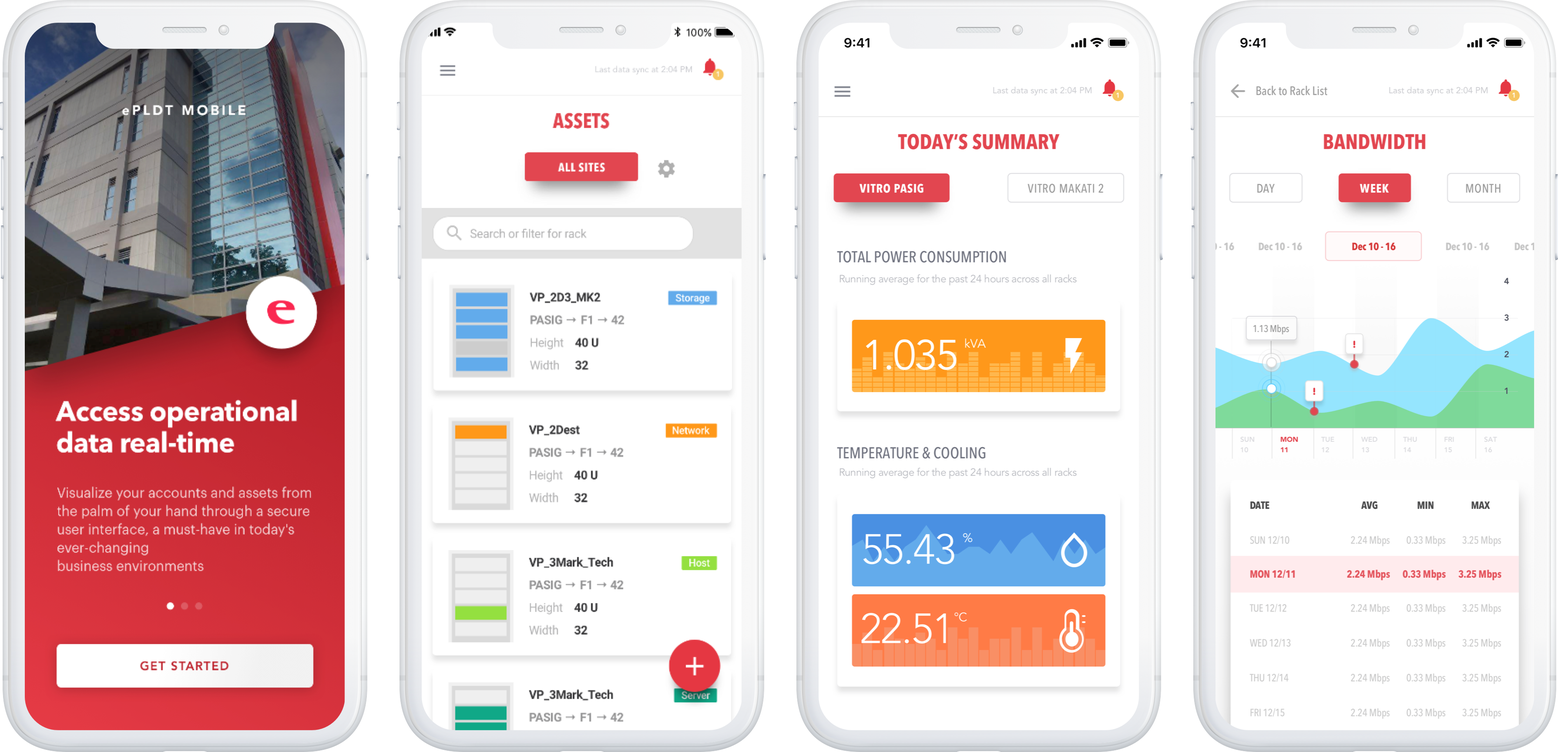
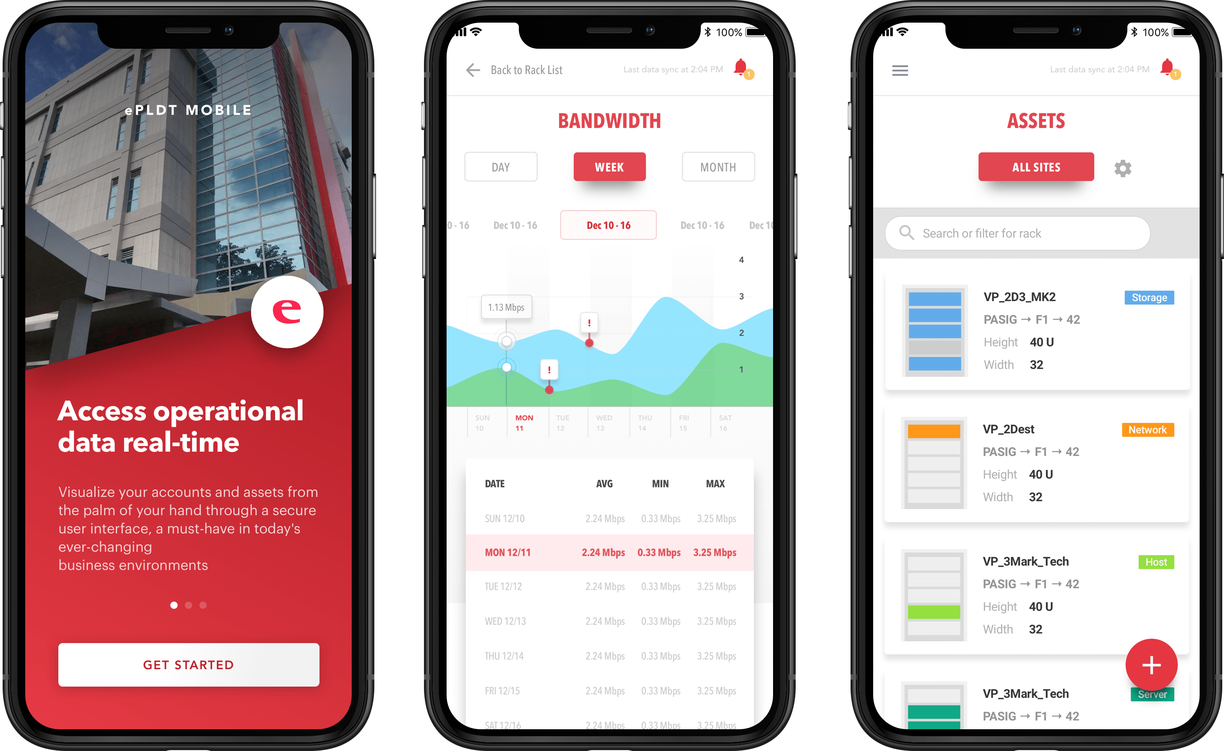
Changed shots from white mocks to black

diff --git a/_site/work/epldt/index.html b/_site/work/epldt/index.html
@@ -450,8 +450,8 @@
 
 
   <div class="container">
-    <div class="row subsection-left row-center">
-      <div class="column content pull-left padded-right">
+    <div class="row subsection-right row-center">
+      <div class="column content pull-right padded-left">
         <h4 class="heading">The ePLDT Global Experience Manual (GEM)</h4>
         <p class="description"><p>We envisioned the G.E.M. to be ePLDT’s brand book, design system and culture code rolled into one source. Wrangling up cross-functional designers, writers and key company personnel, we started working on the prototype of this unprecedented project.</p>
 
@@ -461,7 +461,7 @@
 <a href="/cases/epldtgem" class="button button-outline">Read the case study</a></p>
 </p>
       </div>
-      <div class="column column-50-sm image pull-right">
+      <div class="column column-50-sm image pull-left">
         <picture>
           <source media="(min-width: 40rem)" srcset="/images/cases/epldt-gem/headshot@sm.png">
           <img src="/images/cases/epldt-gem/headshot@sm.png" alt="ePLDT Global Experience Manual cover page" style="width:auto;">
@@ -472,8 +472,8 @@
 
 
   <div class="container">
-    <div class="row subsection-right row-center">
-      <div class="column content pull-right padded-left">
+    <div class="row subsection-left row-center">
+      <div class="column content pull-left padded-right">
         <h4 class="heading">ePLDT Hardworking Website</h4>
         <p class="description"><p>As the principal UX designer, I helped ePLDT rethink the purpose of the company website, and to turn it into a stronger lead generation channel.</p>
 
@@ -483,7 +483,7 @@
 <a href="/cases/epldtgem" class="button button-outline">Read the case study</a></p>
 </p>
       </div>
-      <div class="column column-50-sm image pull-left">
+      <div class="column column-50-sm image pull-right">
         <picture>
           <source media="(min-width: 40rem)" srcset="/images/cases/epldt-website/headshot@sm.png">
           <img src="/images/cases/epldt-website/headshot@sm.png" alt="Competitive analysis screenshots" style="width:auto;">
@@ -494,8 +494,8 @@
 
 
   <div class="container">
-    <div class="row subsection-left row-center">
-      <div class="column content pull-left padded-right">
+    <div class="row subsection-right row-center">
+      <div class="column content pull-right padded-left">
         <h4 class="heading">ePLDT Mobile</h4>
         <p class="description"><p>Part of the company’s mission to improve customer experience, ePLDT Mobile is the key next step toward digital transformation for enterprises.</p>
 
@@ -505,7 +505,7 @@
 <a href="/cases/epldtgem" class="button button-outline">Read the case study</a></p>
 </p>
       </div>
-      <div class="column column-50-sm image pull-right">
+      <div class="column column-50-sm image pull-left">
         <picture>
           <source media="(min-width: 40rem)" srcset="/images/cases/epldt-mobile/showcase.png">
           <img src="/images/cases/epldt-mobile/showcase@sm.png" alt="Competitive analysis screenshots" style="width:auto;">
@@ -516,10 +516,10 @@
 
 
   <div class="container">
-    <div class="row subsection-right row-center">
-      <div class="column content pull-right padded-left">
+    <div class="row subsection-left row-center">
+      <div class="column content pull-left padded-right">
         <h4 class="heading">Ask-E Superbot</h4>
-        <p class="description"><p>As part of of the Experience Creation group, I helped ePLDT conceptualize and design its flagship chatbot service. The goal was to train a system to “read a customer’s mind” by gathering key information points and intuiting complementary products and services.</p>
+        <p class="description"><p>As part of of the Experience Creation group, I helped ePLDT conceptualize and design its flagship chatbot service. The goal was to train a system to “read the user’s mind” by gathering key information points and intuiting complementary products and services.</p>
 
 <p>Powered by the Microsoft Bot Framework, Ask-E’s first iteration was hosted first on the company’s Facebook page and then on the company’s Workplace.</p>
 
@@ -527,7 +527,7 @@
 <a href="/cases/epldtgem" class="button button-outline">Read the case study</a></p>
 </p>
       </div>
-      <div class="column column-50-sm image pull-left">
+      <div class="column column-50-sm image pull-right">
         <picture>
           <source media="(min-width: 40rem)" srcset="/images/cases/aske/showcase.png">
           <img src="/images/cases/aske/showcase@sm.png" alt="Competitive analysis screenshots" style="width:auto;">
@@ -598,7 +598,7 @@
             </div>
 
             
-            <div class="column project-card coming-soon">
+              <div class="column project-card">
             
               <div class="project-details">
                 <h3 class="project-name">Ask-E Superbot</h3>
@@ -606,12 +606,12 @@
               </div>
               <div class="project-shot">
                 <a href="/work/epldt/aske/"><picture class="dead-centered">
-                    <source media="(min-width: 40rem)" srcset="/images/place@2x.png">
-                    <img src="/images/place@2x.png" alt="Coming soon">
+                    <source media="(min-width: 40rem)" srcset="/images/cases/aske/thumbshot.png">
+                    <img src="/images/cases/aske/thumbshot@sm.png" alt="Coming soon">
                   </picture></a>
                 <span class="project-mono dead-centered">A</span>
                 
-                  <h6 class="text-soon dead-centered" data-text='Coming Soon'>Coming Soon</h6>
+                  <!-- do nothing -->
                 
               </div>
             </div>

diff --git a/_site/js/main-min.js b/_site/js/main-min.js
@@ -1,1 +1,1 @@
-function scrollFunction(){document.body.scrollTop>20||document.documentElement.scrollTop>20?(document.getElementById("backToTop").style.visibility="visible",document.getElementById("backToTop").style.opacity="1"):(document.getElementById("backToTop").style.visibility="hidden",document.getElementById("backToTop").style.opacity="0")}if(function($){var e=$(".menu-toggle"),o=$(".menu-bg"),t=$(".menu"),a=new TimelineMax({paused:!0}),n=$(window).width(),i=$(window).height(),c=Math.hypot(n,i),l=-1*c/2,s=-1*c/2;console.log("hypo = "+c),console.log("margin = "+s),a.to(o,.4,{height:2*c,width:2*c,scale:1,ease:Power4.easeOut},"menu-turn").to(e,.6,{backgroundPosition:"-1560px 0",ease:SteppedEase.config(26)},"-=.35").to(t,.5,{opacity:"1",visibility:"visible",display:"block"},"-=0.3").to(o,.2,{opacity:"0",ease:Power4.easeIn}).to(o,.2,{visibility:"hidden"}),e.click(function(){e.hasClass("--active")?(a.reverse(),e.removeClass("--active"),t.removeClass("revealed"),$("html").removeClass("locked")):(a.play(0,!1),e.addClass("--active"),t.addClass("revealed"),$("html").addClass("locked"))}),$(".project-shot a").hover(function(){$(this).siblings(".project-mono").animate({opacity:".8",top:"-=2px"},250)},function(){$(this).siblings(".project-mono").animate({opacity:".1"},250)}),$(".button-hear").click(function(){$("#pronounce")[0].play()})}(jQuery),$(function(){function e(e){jQuery(e).each(function(){var e=jQuery(this),o=e.attr("id"),t=e.attr("class"),a=e.attr("src");jQuery.get(a,function(a){var n=jQuery(a).find("svg");void 0!==o&&(n=n.attr("id",o)),void 0!==t&&(n=n.attr("class",t+" replaced-svg")),n=n.removeAttr("xmlns:a"),e.replaceWith(n)},"xml")})}e('img[src*=".svg"]')}),$(".effect--typed")[0])var typed=new Typed(".effect--typed",{strings:["UX Design","UX Strategy","UX Research","UI Design","Front-end Development"],typeSpeed:100,contentType:"text",backSpeed:50,highlight:!0,smartBackspace:!0,loop:!0,loopCount:1/0,cursorChar:"_",startDelay:500,backDelay:3e3});window.onscroll=function(){scrollFunction()},$("#backToTop").each(function(){$(this).click(function(){return $("html,body").animate({scrollTop:0},"slow"),!1})}),$(window).scroll(function(){$(window).scrollTop()+$(window).height()>$(document).height()-300?$(".nav__logo").removeClass("fade-in").addClass("fade"):$(".nav__logo").removeClass("fade").addClass("fade-in")}),$("#personalLogo").on("load",function(){$(".nav__logo").delay(2e3).css("opacity","1")});var $card=$(".card"),tl=new TimelineMax({repeat:-1});tl.set($card,{rotationX:20,rotationY:-25,rotationZ:-3}).to($card,3,{rotationX:5,rotationY:-15,rotationZ:-2}).to($card,3,{rotationX:20,rotationY:-25,rotationZ:-3});
+function scrollFunction(){document.body.scrollTop>20||document.documentElement.scrollTop>20?(document.getElementById("backToTop").style.visibility="visible",document.getElementById("backToTop").style.opacity="1"):(document.getElementById("backToTop").style.visibility="hidden",document.getElementById("backToTop").style.opacity="0")}if(function($){var e=$(".menu-toggle"),o=$(".menu-bg"),t=$(".menu"),a=new TimelineMax({paused:!0}),n=$(window).width(),i=$(window).height(),c=Math.hypot(n,i),l=-1*c/2,s=-1*c/2;console.log("hypo = "+c),console.log("margin = "+s),a.to(o,.4,{height:2*c,width:2*c,scale:1,ease:Power4.easeOut},"menu-turn").to(e,.6,{backgroundPosition:"-1560px 0",ease:SteppedEase.config(26)},"-=.35").to(t,.5,{opacity:"1",visibility:"visible",display:"block"},"-=0.3").to(o,.2,{opacity:"0",ease:Power4.easeIn}).to(o,.2,{visibility:"hidden"}),e.click(function(){e.hasClass("--active")?(a.reverse(),e.removeClass("--active"),t.removeClass("revealed"),$("html").removeClass("locked")):(a.play(0,!1),e.addClass("--active"),t.addClass("revealed"),$("html").addClass("locked"))}),$(".project-shot a").hover(function(){$(this).siblings(".project-mono").animate({opacity:".8",top:"-=2px"},250)},function(){$(this).siblings(".project-mono").animate({opacity:"0"},250)}),$(".button-hear").click(function(){$("#pronounce")[0].play()})}(jQuery),$(function(){function e(e){jQuery(e).each(function(){var e=jQuery(this),o=e.attr("id"),t=e.attr("class"),a=e.attr("src");jQuery.get(a,function(a){var n=jQuery(a).find("svg");void 0!==o&&(n=n.attr("id",o)),void 0!==t&&(n=n.attr("class",t+" replaced-svg")),n=n.removeAttr("xmlns:a"),e.replaceWith(n)},"xml")})}e('img[src*=".svg"]')}),$(".effect--typed")[0])var typed=new Typed(".effect--typed",{strings:["UX Design","UX Strategy","UX Research","UI Design","Front-end Development"],typeSpeed:100,contentType:"text",backSpeed:50,highlight:!0,smartBackspace:!0,loop:!0,loopCount:1/0,cursorChar:"_",startDelay:500,backDelay:3e3});window.onscroll=function(){scrollFunction()},$("#backToTop").each(function(){$(this).click(function(){return $("html,body").animate({scrollTop:0},"slow"),!1})}),$(window).scroll(function(){$(window).scrollTop()+$(window).height()>$(document).height()-300?$(".nav__logo").removeClass("fade-in").addClass("fade"):$(".nav__logo").removeClass("fade").addClass("fade-in")}),$("#personalLogo").on("load",function(){$(".nav__logo").delay(2e3).css("opacity","1")});var $card=$(".card"),tl=new TimelineMax({repeat:-1});tl.set($card,{rotationX:20,rotationY:-25,rotationZ:-3}).to($card,3,{rotationX:5,rotationY:-15,rotationZ:-2}).to($card,3,{rotationX:20,rotationY:-25,rotationZ:-3});

diff --git a/js/main-min.js b/js/main-min.js
@@ -1,1 +1,1 @@
-function scrollFunction(){document.body.scrollTop>20||document.documentElement.scrollTop>20?(document.getElementById("backToTop").style.visibility="visible",document.getElementById("backToTop").style.opacity="1"):(document.getElementById("backToTop").style.visibility="hidden",document.getElementById("backToTop").style.opacity="0")}if(function($){var e=$(".menu-toggle"),o=$(".menu-bg"),t=$(".menu"),a=new TimelineMax({paused:!0}),n=$(window).width(),i=$(window).height(),c=Math.hypot(n,i),l=-1*c/2,s=-1*c/2;console.log("hypo = "+c),console.log("margin = "+s),a.to(o,.4,{height:2*c,width:2*c,scale:1,ease:Power4.easeOut},"menu-turn").to(e,.6,{backgroundPosition:"-1560px 0",ease:SteppedEase.config(26)},"-=.35").to(t,.5,{opacity:"1",visibility:"visible",display:"block"},"-=0.3").to(o,.2,{opacity:"0",ease:Power4.easeIn}).to(o,.2,{visibility:"hidden"}),e.click(function(){e.hasClass("--active")?(a.reverse(),e.removeClass("--active"),t.removeClass("revealed"),$("html").removeClass("locked")):(a.play(0,!1),e.addClass("--active"),t.addClass("revealed"),$("html").addClass("locked"))}),$(".project-shot a").hover(function(){$(this).siblings(".project-mono").animate({opacity:".8",top:"-=2px"},250)},function(){$(this).siblings(".project-mono").animate({opacity:".1"},250)}),$(".button-hear").click(function(){$("#pronounce")[0].play()})}(jQuery),$(function(){function e(e){jQuery(e).each(function(){var e=jQuery(this),o=e.attr("id"),t=e.attr("class"),a=e.attr("src");jQuery.get(a,function(a){var n=jQuery(a).find("svg");void 0!==o&&(n=n.attr("id",o)),void 0!==t&&(n=n.attr("class",t+" replaced-svg")),n=n.removeAttr("xmlns:a"),e.replaceWith(n)},"xml")})}e('img[src*=".svg"]')}),$(".effect--typed")[0])var typed=new Typed(".effect--typed",{strings:["UX Design","UX Strategy","UX Research","UI Design","Front-end Development"],typeSpeed:100,contentType:"text",backSpeed:50,highlight:!0,smartBackspace:!0,loop:!0,loopCount:1/0,cursorChar:"_",startDelay:500,backDelay:3e3});window.onscroll=function(){scrollFunction()},$("#backToTop").each(function(){$(this).click(function(){return $("html,body").animate({scrollTop:0},"slow"),!1})}),$(window).scroll(function(){$(window).scrollTop()+$(window).height()>$(document).height()-300?$(".nav__logo").removeClass("fade-in").addClass("fade"):$(".nav__logo").removeClass("fade").addClass("fade-in")}),$("#personalLogo").on("load",function(){$(".nav__logo").delay(2e3).css("opacity","1")});var $card=$(".card"),tl=new TimelineMax({repeat:-1});tl.set($card,{rotationX:20,rotationY:-25,rotationZ:-3}).to($card,3,{rotationX:5,rotationY:-15,rotationZ:-2}).to($card,3,{rotationX:20,rotationY:-25,rotationZ:-3});
+function scrollFunction(){document.body.scrollTop>20||document.documentElement.scrollTop>20?(document.getElementById("backToTop").style.visibility="visible",document.getElementById("backToTop").style.opacity="1"):(document.getElementById("backToTop").style.visibility="hidden",document.getElementById("backToTop").style.opacity="0")}if(function($){var e=$(".menu-toggle"),o=$(".menu-bg"),t=$(".menu"),a=new TimelineMax({paused:!0}),n=$(window).width(),i=$(window).height(),c=Math.hypot(n,i),l=-1*c/2,s=-1*c/2;console.log("hypo = "+c),console.log("margin = "+s),a.to(o,.4,{height:2*c,width:2*c,scale:1,ease:Power4.easeOut},"menu-turn").to(e,.6,{backgroundPosition:"-1560px 0",ease:SteppedEase.config(26)},"-=.35").to(t,.5,{opacity:"1",visibility:"visible",display:"block"},"-=0.3").to(o,.2,{opacity:"0",ease:Power4.easeIn}).to(o,.2,{visibility:"hidden"}),e.click(function(){e.hasClass("--active")?(a.reverse(),e.removeClass("--active"),t.removeClass("revealed"),$("html").removeClass("locked")):(a.play(0,!1),e.addClass("--active"),t.addClass("revealed"),$("html").addClass("locked"))}),$(".project-shot a").hover(function(){$(this).siblings(".project-mono").animate({opacity:".8",top:"-=2px"},250)},function(){$(this).siblings(".project-mono").animate({opacity:"0"},250)}),$(".button-hear").click(function(){$("#pronounce")[0].play()})}(jQuery),$(function(){function e(e){jQuery(e).each(function(){var e=jQuery(this),o=e.attr("id"),t=e.attr("class"),a=e.attr("src");jQuery.get(a,function(a){var n=jQuery(a).find("svg");void 0!==o&&(n=n.attr("id",o)),void 0!==t&&(n=n.attr("class",t+" replaced-svg")),n=n.removeAttr("xmlns:a"),e.replaceWith(n)},"xml")})}e('img[src*=".svg"]')}),$(".effect--typed")[0])var typed=new Typed(".effect--typed",{strings:["UX Design","UX Strategy","UX Research","UI Design","Front-end Development"],typeSpeed:100,contentType:"text",backSpeed:50,highlight:!0,smartBackspace:!0,loop:!0,loopCount:1/0,cursorChar:"_",startDelay:500,backDelay:3e3});window.onscroll=function(){scrollFunction()},$("#backToTop").each(function(){$(this).click(function(){return $("html,body").animate({scrollTop:0},"slow"),!1})}),$(window).scroll(function(){$(window).scrollTop()+$(window).height()>$(document).height()-300?$(".nav__logo").removeClass("fade-in").addClass("fade"):$(".nav__logo").removeClass("fade").addClass("fade-in")}),$("#personalLogo").on("load",function(){$(".nav__logo").delay(2e3).css("opacity","1")});var $card=$(".card"),tl=new TimelineMax({repeat:-1});tl.set($card,{rotationX:20,rotationY:-25,rotationZ:-3}).to($card,3,{rotationX:5,rotationY:-15,rotationZ:-2}).to($card,3,{rotationX:20,rotationY:-25,rotationZ:-3});

diff --git a/_site/work/index.html b/_site/work/index.html
@@ -163,7 +163,7 @@
       </div>
     
       
-      <div class="column project-card coming-soon">
+        <div class="column project-card">
       
 
         <div class="project-details">
@@ -172,20 +172,20 @@
         </div>
         <div class="project-shot">
           <a href="/work/epldt/aske/"><picture class="dead-centered">
-              <source media="(min-width: 40rem)" srcset="/images/place@2x.png">
-              <img src="/images/place@2x.png" alt="Coming soon">
+              <source media="(min-width: 40rem)" srcset="/images/cases/aske/thumbshot.png">
+              <img src="/images/cases/aske/thumbshot@sm.png" alt="Coming soon">
             </picture></a>
           <span class="project-mono dead-centered">A</span>
 
           
-            <h6 class="text-soon dead-centered" data-text='Coming Soon'>Coming Soon</h6>
+            <!-- do nothing -->
           
 
         </div>
       </div>
     
       
-      <div class="column project-card coming-soon">
+        <div class="column project-card">
       
 
         <div class="project-details">
@@ -194,20 +194,20 @@
         </div>
         <div class="project-shot">
           <a href="/work/epldt/gem/"><picture class="dead-centered">
-              <source media="(min-width: 40rem)" srcset="/images/place@2x.png">
-              <img src="/images/place@2x.png" alt="Coming soon">
+              <source media="(min-width: 40rem)" srcset="/images/cases/epldt-gem/thumbshot.png">
+              <img src="/images/cases/epldt-gem/thumbshot@sm.png" alt="Coming soon">
             </picture></a>
           <span class="project-mono dead-centered">G</span>
 
           
-            <h6 class="text-soon dead-centered" data-text='Coming Soon'>Coming Soon</h6>
+            <!-- do nothing -->
           
 
         </div>
       </div>
     
       
-      <div class="column project-card coming-soon">
+        <div class="column project-card">
       
 
         <div class="project-details">
@@ -216,20 +216,20 @@
         </div>
         <div class="project-shot">
           <a href="/work/epldt/website-redesign/"><picture class="dead-centered">
-              <source media="(min-width: 40rem)" srcset="/images/place@2x.png">
-              <img src="/images/place@2x.png" alt="Coming soon">
+              <source media="(min-width: 40rem)" srcset="/images/cases/epldt-website/thumbshot.png">
+              <img src="/images/cases/epldt-website/thumbshot@sm.png" alt="Coming soon">
             </picture></a>
           <span class="project-mono dead-centered">H</span>
 
           
-            <h6 class="text-soon dead-centered" data-text='Coming Soon'>Coming Soon</h6>
+            <!-- do nothing -->
           
 
         </div>
       </div>
     
       
-      <div class="column project-card coming-soon">
+        <div class="column project-card">
       
 
         <div class="project-details">
@@ -238,13 +238,13 @@
         </div>
         <div class="project-shot">
           <a href="/work/epldt/epldt-mobile/"><picture class="dead-centered">
-              <source media="(min-width: 40rem)" srcset="/images/place@2x.png">
-              <img src="/images/place@2x.png" alt="Coming soon">
+              <source media="(min-width: 40rem)" srcset="/images/cases/epldt-mobile/thumbshot.png">
+              <img src="/images/cases/epldt-mobile/thumbshot@sm.png" alt="Coming soon">
             </picture></a>
-          <span class="project-mono dead-centered">M</span>
+          <span class="project-mono dead-centered">E</span>
 
           
-            <h6 class="text-soon dead-centered" data-text='Coming Soon'>Coming Soon</h6>
+            <!-- do nothing -->
           
 
         </div>

diff --git a/_pages/epldt.html b/_pages/epldt.html
@@ -149,7 +149,7 @@ alt: &#8220;Global Experience Manual Cover Page&#8221;</p></p></li>
 heading: &#8220;Solutions&#8221;
 description: |
 Now let&#8217;s go see some work, shall we?</p></p></li>
-<li><p> name: subsectionleft
+<li><p> name: subsectionright
 heading: The ePLDT Global Experience Manual (GEM)
 description: |
 We envisioned the G.E.M. to be ePLDT&#8217;s brand book, design system and culture code rolled into one source. Wrangling up cross-functional designers, writers and key company personnel, we started working on the prototype of this unprecedented project.</p>
@@ -161,7 +161,7 @@ We envisioned the G.E.M. to be ePLDT&#8217;s brand book, design system and cultu
 media_lg: &#8220;/images/cases/epldt-gem/headshot@sm.png&#8221;
 media_sm: &#8220;/images/cases/epldt-gem/headshot@sm.png&#8221;
 alt: &#8220;ePLDT Global Experience Manual cover page&#8221;</p></li>
-<li><p> name: subsectionright
+<li><p> name: subsectionleft
 heading: ePLDT Hardworking Website
 description: |
 As the principal UX designer, I helped ePLDT rethink the purpose of the company website, and to turn it into a stronger lead generation channel.</p>
@@ -173,7 +173,7 @@ As the principal UX designer, I helped ePLDT rethink the purpose of the company 
 media_lg: &#8220;/images/cases/epldt-website/headshot@sm.png&#8221;
 media_sm: &#8220;/images/cases/epldt-website/headshot@sm.png&#8221;
 alt: &#8220;Competitive analysis screenshots&#8221;</p></li>
-<li><p> name: subsectionleft
+<li><p> name: subsectionright
 heading: ePLDT Mobile
 description: |
 Part of the company’s mission to improve customer experience, ePLDT Mobile is the key next step toward digital transformation for enterprises.</p>
@@ -185,10 +185,10 @@ Part of the company’s mission to improve customer experience, ePLDT Mobile is 
 media_lg: &#8220;/images/cases/epldt-mobile/showcase.png&#8221;
 media_sm: &#8220;/images/cases/epldt-mobile/showcase@sm.png&#8221;
 alt: &#8220;Competitive analysis screenshots&#8221;</p></li>
-<li><p> name: subsectionright
+<li><p> name: subsectionleft
 heading: &#8220;Ask-E Superbot&#8221;
 description: |
-As part of of the Experience Creation group, I helped ePLDT conceptualize and design its flagship chatbot service. The goal was to train a system to “read a customer’s mind” by gathering key information points and intuiting complementary products and services.</p>
+As part of of the Experience Creation group, I helped ePLDT conceptualize and design its flagship chatbot service. The goal was to train a system to “read the user&#8217;s mind” by gathering key information points and intuiting complementary products and services.</p>
 
 <p>Powered by the Microsoft Bot Framework, Ask-E’s first iteration was hosted first on the company’s Facebook page and then on the company’s Workplace.</p>
 

diff --git a/_site/_pages/epldt.html b/_site/_pages/epldt.html
@@ -149,7 +149,7 @@ alt: &#8220;Global Experience Manual Cover Page&#8221;</p></p></li>
 heading: &#8220;Solutions&#8221;
 description: |
 Now let&#8217;s go see some work, shall we?</p></p></li>
-<li><p> name: subsectionleft
+<li><p> name: subsectionright
 heading: The ePLDT Global Experience Manual (GEM)
 description: |
 We envisioned the G.E.M. to be ePLDT&#8217;s brand book, design system and culture code rolled into one source. Wrangling up cross-functional designers, writers and key company personnel, we started working on the prototype of this unprecedented project.</p>
@@ -161,7 +161,7 @@ We envisioned the G.E.M. to be ePLDT&#8217;s brand book, design system and cultu
 media_lg: &#8220;/images/cases/epldt-gem/headshot@sm.png&#8221;
 media_sm: &#8220;/images/cases/epldt-gem/headshot@sm.png&#8221;
 alt: &#8220;ePLDT Global Experience Manual cover page&#8221;</p></li>
-<li><p> name: subsectionright
+<li><p> name: subsectionleft
 heading: ePLDT Hardworking Website
 description: |
 As the principal UX designer, I helped ePLDT rethink the purpose of the company website, and to turn it into a stronger lead generation channel.</p>
@@ -173,7 +173,7 @@ As the principal UX designer, I helped ePLDT rethink the purpose of the company 
 media_lg: &#8220;/images/cases/epldt-website/headshot@sm.png&#8221;
 media_sm: &#8220;/images/cases/epldt-website/headshot@sm.png&#8221;
 alt: &#8220;Competitive analysis screenshots&#8221;</p></li>
-<li><p> name: subsectionleft
+<li><p> name: subsectionright
 heading: ePLDT Mobile
 description: |
 Part of the company’s mission to improve customer experience, ePLDT Mobile is the key next step toward digital transformation for enterprises.</p>
@@ -185,10 +185,10 @@ Part of the company’s mission to improve customer experience, ePLDT Mobile is 
 media_lg: &#8220;/images/cases/epldt-mobile/showcase.png&#8221;
 media_sm: &#8220;/images/cases/epldt-mobile/showcase@sm.png&#8221;
 alt: &#8220;Competitive analysis screenshots&#8221;</p></li>
-<li><p> name: subsectionright
+<li><p> name: subsectionleft
 heading: &#8220;Ask-E Superbot&#8221;
 description: |
-As part of of the Experience Creation group, I helped ePLDT conceptualize and design its flagship chatbot service. The goal was to train a system to “read a customer’s mind” by gathering key information points and intuiting complementary products and services.</p>
+As part of of the Experience Creation group, I helped ePLDT conceptualize and design its flagship chatbot service. The goal was to train a system to “read the user&#8217;s mind” by gathering key information points and intuiting complementary products and services.</p>
 
 <p>Powered by the Microsoft Bot Framework, Ask-E’s first iteration was hosted first on the company’s Facebook page and then on the company’s Workplace.</p>
 

diff --git a/_site/work/epldt/digicon/index.html b/_site/work/epldt/digicon/index.html
@@ -213,7 +213,7 @@
             </div>
 
             
-            <div class="column project-card coming-soon">
+              <div class="column project-card">
             
               <div class="project-details">
                 <h3 class="project-name">Ask-E Superbot</h3>
@@ -221,12 +221,12 @@
               </div>
               <div class="project-shot">
                 <a href="/work/epldt/aske/"><picture class="dead-centered">
-                    <source media="(min-width: 40rem)" srcset="/images/place@2x.png">
-                    <img src="/images/place@2x.png" alt="Coming soon">
+                    <source media="(min-width: 40rem)" srcset="/images/cases/aske/thumbshot.png">
+                    <img src="/images/cases/aske/thumbshot@sm.png" alt="Coming soon">
                   </picture></a>
                 <span class="project-mono dead-centered">A</span>
                 
-                  <h6 class="text-soon dead-centered" data-text='Coming Soon'>Coming Soon</h6>
+                  <!-- do nothing -->
                 
               </div>
             </div>

diff --git a/_site/work/kite/clockenflap/index.html b/_site/work/kite/clockenflap/index.html
@@ -132,7 +132,7 @@
             </div>
 
             
-            <div class="column project-card coming-soon">
+              <div class="column project-card">
             
               <div class="project-details">
                 <h3 class="project-name">Ask-E Superbot</h3>
@@ -140,12 +140,12 @@
               </div>
               <div class="project-shot">
                 <a href="/work/epldt/aske/"><picture class="dead-centered">
-                    <source media="(min-width: 40rem)" srcset="/images/place@2x.png">
-                    <img src="/images/place@2x.png" alt="Coming soon">
+                    <source media="(min-width: 40rem)" srcset="/images/cases/aske/thumbshot.png">
+                    <img src="/images/cases/aske/thumbshot@sm.png" alt="Coming soon">
                   </picture></a>
                 <span class="project-mono dead-centered">A</span>
                 
-                  <h6 class="text-soon dead-centered" data-text='Coming Soon'>Coming Soon</h6>
+                  <!-- do nothing -->
                 
               </div>
             </div>

diff --git a/_site/css/milligram.css b/_site/css/milligram.css
@@ -953,7 +953,7 @@ footer {
 
 @media (min-width: 40rem) {
   .menu {
-    padding: 0 3rem; }
+    padding: 0 8rem; }
     .menu .menu__content {
       position: absolute;
       top: 50%;
@@ -1218,7 +1218,7 @@ footer {
       margin-top: 2rem !important; }
       .showcase .project-card .project-shot picture, .showcase .project-card .project-shot img {
         z-index: 2;
-        max-width: 420px; }
+        max-width: 380px; }
   .footer-showcase .showcase {
     margin: 5rem 0 0; }
     .footer-showcase .showcase .project-card {

diff --git a/css/milligram.css b/css/milligram.css
@@ -953,7 +953,7 @@ footer {
 
 @media (min-width: 40rem) {
   .menu {
-    padding: 0 3rem; }
+    padding: 0 8rem; }
     .menu .menu__content {
       position: absolute;
       top: 50%;
@@ -1218,7 +1218,7 @@ footer {
       margin-top: 2rem !important; }
       .showcase .project-card .project-shot picture, .showcase .project-card .project-shot img {
         z-index: 2;
-        max-width: 420px; }
+        max-width: 380px; }
   .footer-showcase .showcase {
     margin: 5rem 0 0; }
     .footer-showcase .showcase .project-card {

diff --git a/_site/js/main.js b/_site/js/main.js
@@ -38,7 +38,7 @@ $('.project-shot a').hover(function(){
     },
     function(){
       $(this).siblings('.project-mono').animate({
-        'opacity': '.1'
+        'opacity': '0'
       }, 250)
     });
 

diff --git a/js/main.js b/js/main.js
@@ -38,7 +38,7 @@ $('.project-shot a').hover(function(){
     },
     function(){
       $(this).siblings('.project-mono').animate({
-        'opacity': '.1'
+        'opacity': '0'
       }, 250)
     });
 
